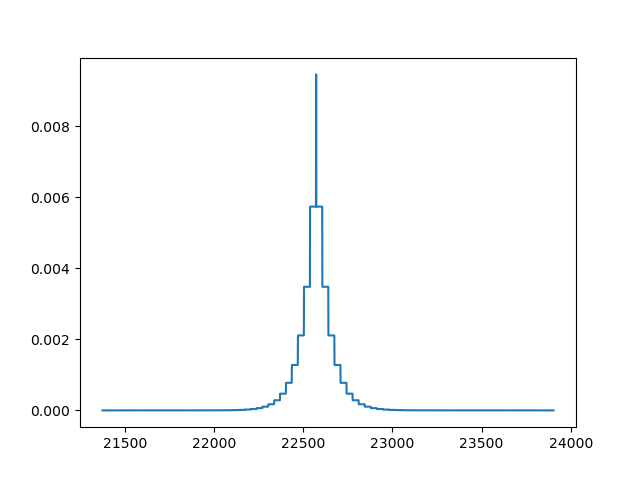
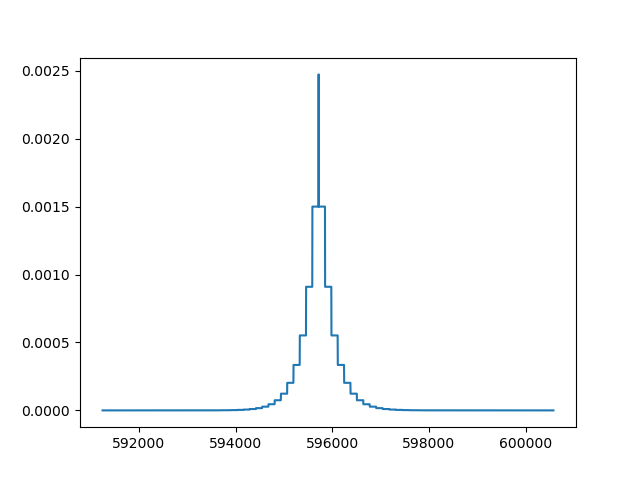
final version

diff --git a/main.py b/main.py
@@ -1,6 +1,6 @@
 import time
 from src.database import connect
-from src.inverse import inverse
+from src.inverse import inverse, inverse_k
 import numpy as np
 from random import choices
 import argparse
@@ -13,9 +13,14 @@ if __name__ == '__main__':
     parser = argparse.ArgumentParser(description='sql over DP demo')
     parser.add_argument('--db', type=str, default='./database.ini', help='path to database initialization file')
     parser.add_argument('--query', '--q', type=str, default='./q12', help='path to query file')
-    parser.add_argument('--type', '--t', type=int, choices=[1, 2], default=1, help='type of the query')
+    parser.add_argument('--type', '--t', type=str, choices=["count", "k"], help='type of the query', default="count")
+    parser.add_argument('--l', type=int, choices=[1, 2], default=1, help='case for l')
     parser.add_argument('--out', type=str, default='./prob_density.png',
                         help='File to output of the probability density of the result')
+    parser.add_argument('--k', type=float, default=0.5,
+                        help='quantile for k-selection')
+    parser.add_argument('--epi', type=float, default=1,
+                        help='privacy budget')
     opt = parser.parse_args()
 
     # read query from file
@@ -24,25 +29,30 @@ if __name__ == '__main__':
     # fetch the query result directly from the database
     res = connect(q, opt.db)
     print("database connection ok")
+    # print(res[451])
     start = time.time()
     # set up for parameters
     beta = 1 / 3
-    epi = 1
-    l = opt.type
-    # calculate the s(v,r) for every possible r
-    res_bar, true_value, min_inverse, max_inverse = inverse(res, l, epi, beta)
-
+    epi = opt.epi
+    type = opt.type
+    l = opt.l
+    k = opt.k
+    if type == "k":
+        res_bar, true_value, min_inverse, max_inverse = inverse_k(res, l, epi, beta, k)
+    elif type == "count":
+        # calculate the s(v,r) for every possible r
+        res_bar, true_value, min_inverse, max_inverse = inverse(res, l, epi, beta)
     # set up the distribution for the sampling
     prob = np.exp(res_bar * (epi / 2))
     prob = prob / np.sum(prob)
     population = [i for i in range(len(prob + 1))]
-    # output the sampling result for 10 times
+    # # output the sampling result for 10 times
     result = choices(population, list(prob), k=1)
     end = time.time()
     print("processing time: {}".format(end - start))
     result = np.mean(np.array(result))
     print("query result over DP: {}".format(result))
     print("true query result: {}".format(true_value))
-    print("relative error: {}".format((true_value - result)/result))
+    print("relative error: {}".format((true_value - result)/true_value))
     plt.plot(list(range(min_inverse, max_inverse+1)), prob[min_inverse:max_inverse+1])
     plt.savefig(opt.out)

diff --git a/src/inverse.py b/src/inverse.py
@@ -1,7 +1,8 @@
 import operator
 from heapq import nlargest
 import math
-from src.cplex2 import LpSolver
+from src.cplex2 import LpSolver, LpSolver_k
+from sortedcontainers import SortedDict
 import time
 import numpy as np
 from tqdm import tqdm
@@ -44,10 +45,59 @@ def inverse(result, l, epi, beta):
         for j in tqdm(range(2 * tau + 1)):
             # use the LP solver the get the shifted inverse
             inverses.append(LpSolver(user_set, t, j))
-
     # based on f_tild(v,j) to get s(v,j)
     prob = get_distribution(inverses, D, tau)
     return prob, true_value, min(inverses), max(inverses)
+
+
+def inverse_k(result, l, epi, beta, percentage):
+    value = [i[0] for i in result]
+    users = [i[1] for i in result]
+    distinct_users = list(set(users))
+    users_c = {}
+    for user in distinct_users:
+        users_c[user] = 0
+    users_c = SortedDict(users_c)
+
+    if l == 1:
+        D = 1e2
+    else:
+        D = 2e5
+
+    tau = math.ceil((2 / epi) * math.log((D + 1) / beta))
+    k = math.ceil((len(result) - 1) * (1 - percentage))
+    inverses = np.zeros(int(2 * tau)+1)
+
+    true_res = float(result[k][0])
+    j = 0
+    # case for l == 1
+    if l == 1:
+        for i in tqdm(range(len(result))):
+            count_largest = 0
+            for n in range(j):
+                count_largest += users_c.peekitem(-n)[1]
+            count = i - count_largest
+            if count <= k:
+                inverses[j] = float(result[i][0])
+            else:
+                j += 1
+                if j > 2*tau:
+                    break
+                else:
+                    inverses[j] = float(result[i][0])
+            userid = result[i][1]
+            users_c[userid] += 1
+    # case for l == 2
+    elif l == 2:
+        VC_i = [0] * len(result)
+        for i in tqdm(range(len(result))):
+            VC_i[i] += LpSolver_k(users, i, k)
+        for j in range(len(inverses)):
+            vc = np.array(VC_i)
+            clipped_vc = vc[vc <= j]
+            inverses[j] = min(value[:len(clipped_vc)])
+    prob = get_distribution(inverses, D, tau)
+    return prob, true_res, math.ceil(min(inverses)), math.floor(max(inverses))
 
 
 def get_distribution(inverses, D, tau):
@@ -58,7 +108,7 @@ def get_distribution(inverses, D, tau):
     prob += (-tau-1)
     # we only need manually check r between min_inverse and max_inverse, everything else is the same
     # follow the standard process in the paper
-    for r in range(min_inverse, max_inverse+1):
+    for r in range(math.floor(min_inverse), math.ceil(max_inverse+1)):
         prob[r] -= (-tau-1)
         if r == inverses[tau]:
             continue

diff --git a/src/cplex2.py b/src/cplex2.py
@@ -6,6 +6,7 @@ import math
 
 def LpSolver(user_set, value, j):
     mod = Model(name="Linear Program")
+    mod.parameters.threads = 4
     # variables for users
     users = {}
     # variables for user sets
@@ -27,14 +28,48 @@ def LpSolver(user_set, value, j):
         mod.add_constraint(users[supp] + users[cust] >= s[xname])
         obj_fn += (1-s[xname])*value[i]
 
-    for k in users.keys():
-        t += users[k]
+    # for k in users.keys():
+    #     t += users[k]
+    t = mod.sum(users.values())
 
     mod.add_constraint(t <= j)
     mod.set_objective('min', obj_fn)
     mod.solve()
     # only need int
     return math.ceil(mod.objective_value)
+
+
+def LpSolver_k(user_set, i, k):
+    mod = Model(name="Linear Program")
+    mod.parameters.threads = 4
+    # variables for users
+    users = {}
+    # variables for tuple
+    tuple = {}
+    # objective function
+
+    for j in range(len(user_set)):
+        su, cu = re.findall(r'\d+', user_set[j])
+        xname = "x{0}".format(j)
+        supp = "s{0}".format(su)
+        cust = "c{0}".format(cu)
+        tuple[xname] = mod.continuous_var(name=xname, lb=0, ub=1)
+        if supp not in users.keys():
+            users[supp] = mod.continuous_var(name=supp, lb=0, ub=1)
+        if cust not in users.keys():
+            users[cust] = mod.continuous_var(name=cust, lb=0, ub=1)
+        mod.add_constraint(users[supp] + users[cust] >= tuple[xname])
+
+    # t = 0
+    # for k in tuple.keys():
+    #     t += tuple[k]
+    t = mod.sum(tuple.values())
+    obj_fn = mod.sum(users.values())
+    # print(len(tuple.values()), len(users.values()))
+    mod.add_constraint(t >= (i - k + 1))
+    mod.set_objective('min', obj_fn)
+    mod.solve()
+    return mod.objective_value
 
 # this part is for testing
 if __name__ == '__main__':

diff --git a/src/test.py b/src/test.py
@@ -1,7 +1,8 @@
-from random import choices
+from sortedcontainers import SortedDict
+import numpy as np
 # this file is for unit-test some functionality
 
 if __name__ == '__main__':
-    population = [1, 2, 3, 4, 5, 6]
-    weights = [0.1, 0.05, 0.05, 0.2, 0.4, 0.2]
-    print(choices(population, weights))
+    a = [ 1,1,2,3,4]
+    a = np.array(a)
+    print(np.argmin(a[a<2]))

diff --git a/README.md b/README.md
@@ -23,9 +23,10 @@ and one background paper:
 ## Software
 
 - we use **python** for programming language.
-- we use **postgreSQL** as the relational database.
-- we use **cplex** for solving linear program.
-- all the tables will be the same as **tpch**. 
+- we use [**postgreSQL**](https://www.postgresql.org/) as the relational database.
+- we use [**cplex**](https://www.ibm.com/docs/en/icos/20.1.0?topic=cplex-setting-up-python-api) for solving linear program.
+
+- all the relational tables will be the same as **tpch**. 
   Typically in this implementation, we generate 100MB data for experiment.
 
 ## Dependencies
@@ -36,6 +37,7 @@ check requirement file in the repo.
 - **docplex, cplex** for solving linear program.
 - **numpy** for calculation.
 - **tqdm, matplotlib** for visualization.
+- [**sortedcontainers**](https://grantjenks.com/docs/sortedcontainers/#) for better efficiency in some cases.
 
 ## Usage
 
@@ -51,11 +53,24 @@ usage of arguments:
 
 - **db**, filepath of database connect, default will be _database.ini_.
 - **query**, filepath of query, default will be _q12_.
-- **type**, type of the query (may be modified later), default will be _1_, corresponding to q12.
+- **type**, type of the query, only have count and k(for k-selection) for now. Default will be _count_, corresponding to q12.
 - **out**, filepath of the output which is a probability density, default will be _prob_density.png_.
+- **k**, specific quantile we want for the k-selection query, default will be _0.5_.
+- **l**, case for l of the query, default will be _1_, corresponding to q12.
+- **epi**, privacy budget. Default will be _1_.
 
 Sample:
 
 ```
-python main.py --db ./database.ini --q ./q12 --t 1 --out ./prob_density.png
+python main.py --db ./database.ini --q ./q12 --t count --l 1 --out ./prob_density.png --epi 1
+```
+In this case, we will get the result of q12, which is a count function with l = 1, and the privacy budget is 1.
+
+the result will be:
+```
+processing time: 1.6703591346740723
+query result over DP: 595557.0
+true query result: 600572
+relative error: 0.008350372644745342
+
 ```
